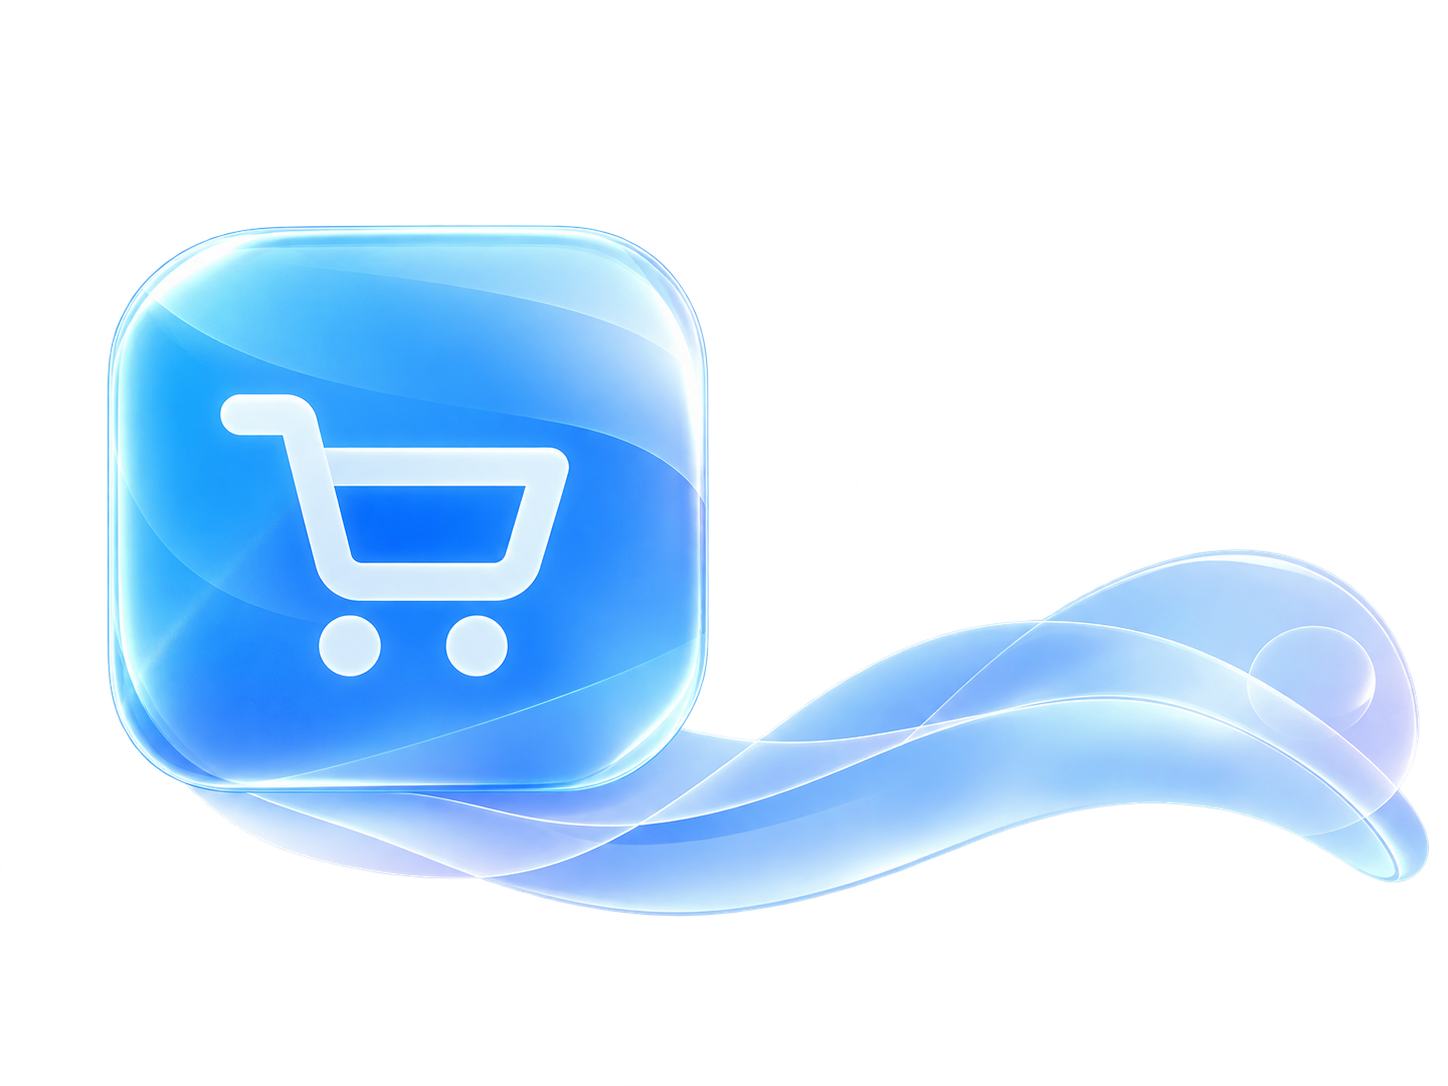
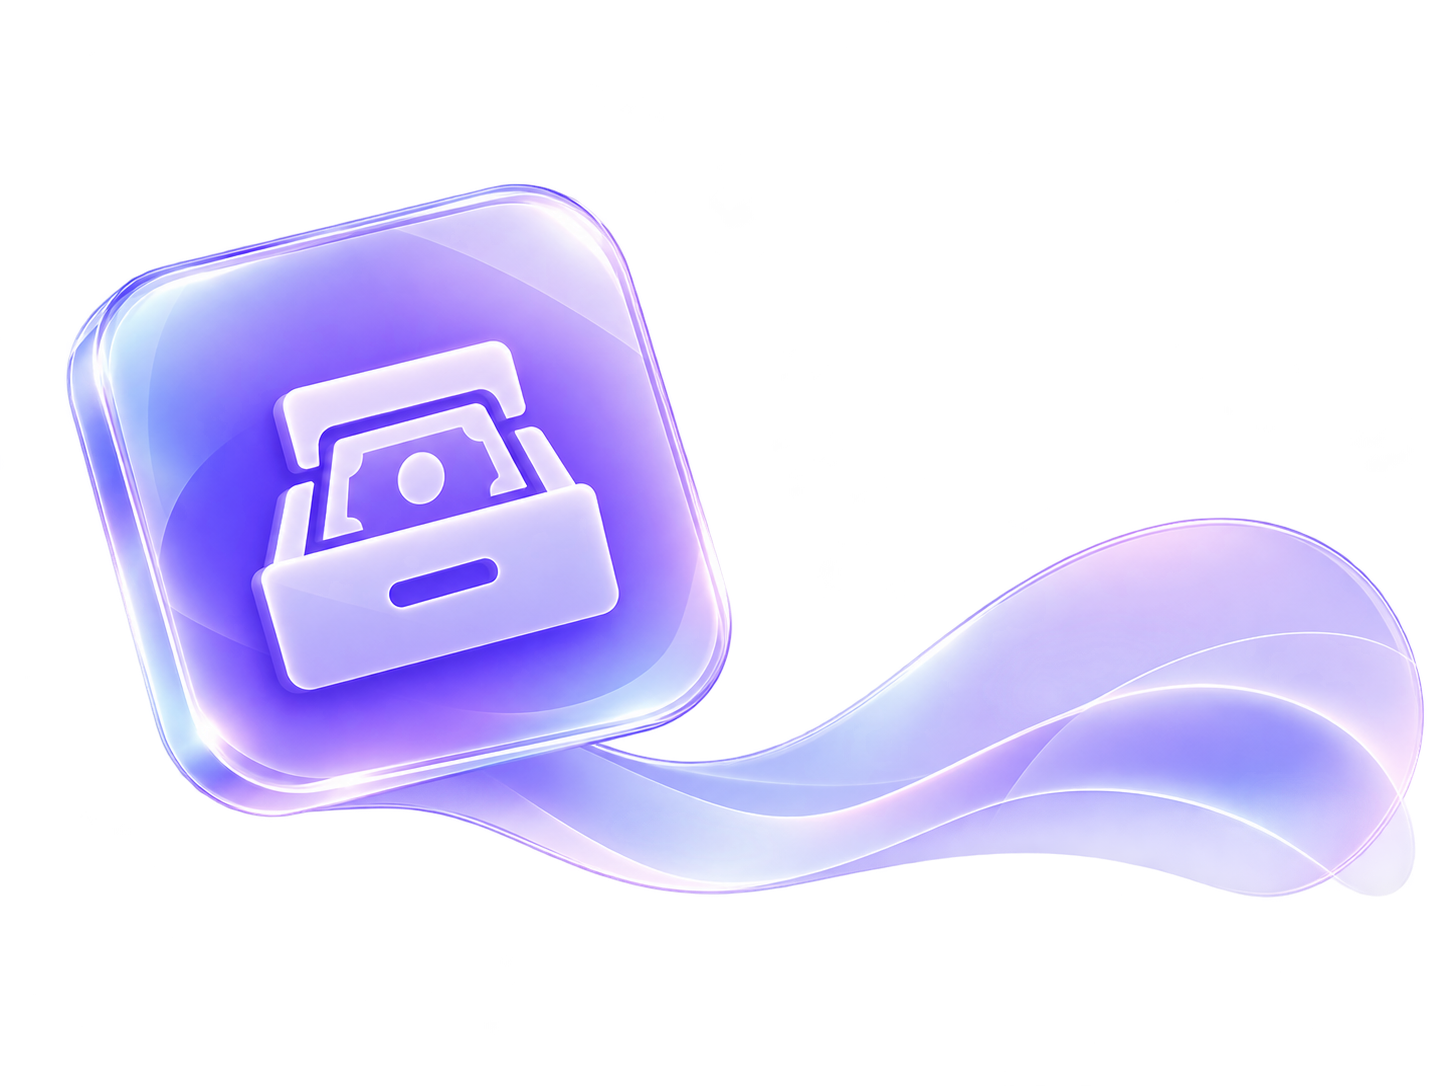
fix(ui): align KPI card artwork with reference and correct purchases/cash art mapping

diff --git a/src/BusinessOS.Pharmacy.Desktop/Dashboard/DashboardView.xaml b/src/BusinessOS.Pharmacy.Desktop/Dashboard/DashboardView.xaml
@@ -227,10 +227,10 @@
                                 <Image Grid.ColumnSpan="2"
                                        Source="{Binding AccentArtUri}"
                                        Stretch="Uniform"
-                                       Height="126"
+                                       Height="134"
                                        HorizontalAlignment="Left"
-                                       VerticalAlignment="Bottom"
-                                       Margin="6,0,0,-18"
+                                       VerticalAlignment="Top"
+                                       Margin="-12,-26,0,0"
                                        IsHitTestVisible="False"
                                        Visibility="{Binding DataContext.IsGlassTheme,
                                                     RelativeSource={RelativeSource AncestorType=UserControl},
